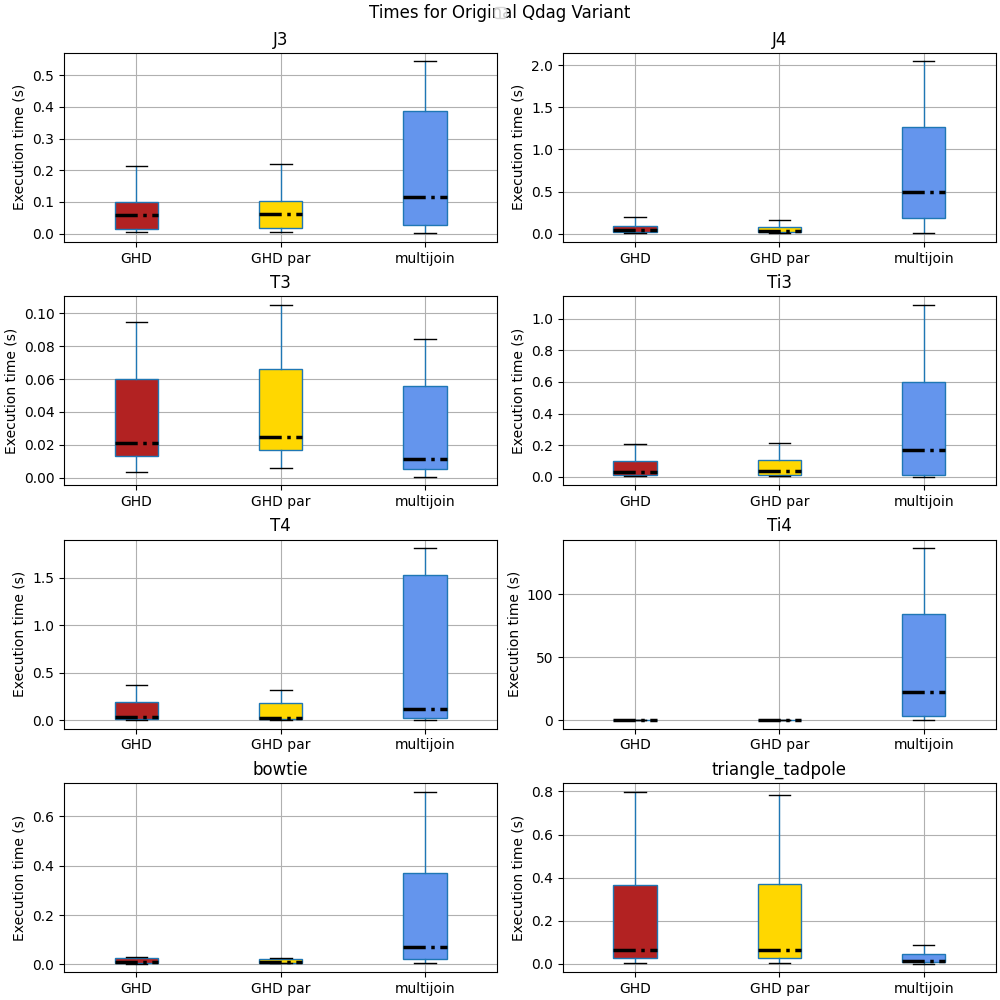
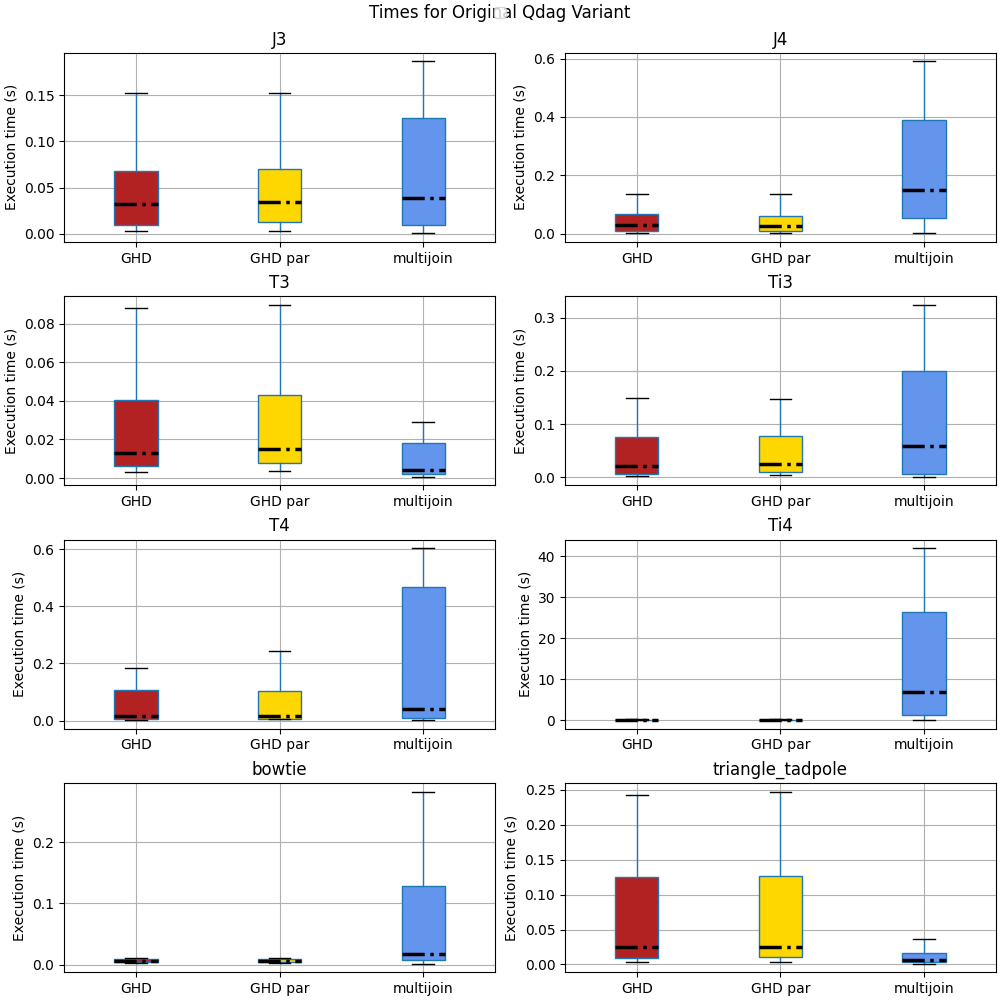
add chart with new results

diff --git a/plotter.py b/plotter.py
@@ -2,6 +2,20 @@ import pandas as pd
 import numpy as np
 import matplotlib.pyplot as plt
 
+ghd_confs={
+    "bowtie":1,
+    "J3":9,
+    "J4":7,
+    "triangle_barbell":1,
+    "triangle_tadpole":1,
+    "Ti4":7,
+    "square_tadpole":1,
+    "square_barbell":1,
+    "penta_barbell":1,
+    "T3":9,
+    "T4":7,
+    "Ti3":9,
+}
 def min_time():
     multi = ["J3", "J4", "T3", "Ti3", "T4", "Ti4"]
     for i, m in enumerate(multi):
@@ -62,21 +76,15 @@ def plot_times():
     for i, p in enumerate(patterns):
         if p in multi:
             df1 = pd.read_csv(f"outputs_time/{p}_ghd_yk_1.csv", names=["time"])
-            df2 = pd.read_csv(f"outputs_time/{p}_ghd_yk_2.csv", names=["time"])
-            df3 = pd.read_csv(f"outputs_time/{p}_ghd_yk_3.csv", names=["time"])
-
-            yk_res = pd.merge(df1, df2, left_index=True, right_index=True, suffixes=('_1', '_2'))
-            yk_res = pd.merge(yk_res, df3, left_index=True, right_index=True)
+            for j in range(2, ghd_confs[p]+1):
+                yk_res = pd.merge(df1, pd.read_csv(f"outputs_time/{p}_ghd_yk_{j}.csv", names=["time"]), left_index=True, right_index=True, suffixes=('_1', f'_{j}'))
             yk_res["GHD"] = yk_res.min(axis=1)
-
             df1p = pd.read_csv(f"outputs_time/{p}_ghd_yk_par_1.csv", names=["time"])
-            df2p = pd.read_csv(f"outputs_time/{p}_ghd_yk_par_2.csv", names=["time"])
-            df3p = pd.read_csv(f"outputs_time/{p}_ghd_yk_par_3.csv", names=["time"])
-
-            ykp_res = pd.merge(df1p, df2p, left_index=True, right_index=True)
-            ykp_res = pd.merge(ykp_res, df3p, left_index=True, right_index=True)
+            for j in range(1, ghd_confs[p]+1):
+                ykp_res = pd.merge(df1p, pd.read_csv(f"outputs_time/{p}_ghd_yk_{j}.csv", names=["time"]), left_index=True, right_index=True, suffixes=('_1', f'_{j}'))
+            
             ykp_res["GHD par"] = ykp_res.min(axis=1)
-
+            """
             df_np1 = pd.read_csv(f"outputs_time/no_pruning_{p}_ghd_yk_1.csv", names=["time"])
             df_np2 = pd.read_csv(f"outputs_time/no_pruning_{p}_ghd_yk_2.csv", names=["time"])
             df_np3 = pd.read_csv(f"outputs_time/no_pruning_{p}_ghd_yk_3.csv", names=["time"])
@@ -84,26 +92,26 @@ def plot_times():
             yk_np_res = pd.merge(df_np1, df_np2, left_index=True, right_index=True, suffixes=('_1', '_2'))
             yk_np_res = pd.merge(yk_np_res, df_np3, left_index=True, right_index=True)
             yk_np_res["GHD without pruning"] = yk_np_res.min(axis=1)
-
+"""
             df_mj = pd.read_csv(f"outputs_time/{p}_ghd_mj.csv", names=["multijoin"])
         else:
-            yk_res = pd.read_csv(f"outputs_time/{p}_yk.csv", names=["GHD"])
-            ykp_res = pd.read_csv(f"outputs_time/{p}_yk_par.csv", names=["GHD par"])
+            yk_res = pd.read_csv(f"outputs_time/{p}_yk_1.csv", names=["GHD"])
+            ykp_res = pd.read_csv(f"outputs_time/{p}_yk_par_1.csv", names=["GHD par"])
             df_mj = pd.read_csv(f"outputs_time/{p}_mj.csv", names=["multijoin"])
-            yk_np_res = pd.read_csv(f"outputs_time/no_pruning_{p}_yk.csv", names=["GHD without pruning"])
+           # yk_np_res = pd.read_csv(f"outputs_time/no_pruning_{p}_yk.csv", names=["GHD without pruning"])
 
         df_mj[df_mj['multijoin'] == 'timeout'] = 1800
         df_mj["multijoin"] = pd.to_numeric(df_mj["multijoin"], downcast='float')
 
         res = pd.merge(yk_res[["GHD"]], ykp_res[["GHD par"]], left_index=True, right_index=True)
-        res = pd.merge(res, yk_np_res, left_index=True, right_index=True)
+        #res = pd.merge(res, yk_np_res, left_index=True, right_index=True)
         res = pd.merge(res, df_mj, left_index=True, right_index=True)
         ax = axes[i//2][i%2]
         ax.set_title(p)
         ax.set_ylabel('Execution time (s)')
         bplot, props = res.boxplot(
             ax=ax,
-            column=["GHD", "GHD par", "GHD without pruning"],#, "multijoin"],
+            column=["GHD", "GHD par", "multijoin"],#"GHD without pruning"],#, "multijoin"],
             patch_artist=True,
             medianprops=medianprops,
             showmeans=False,
@@ -311,4 +319,4 @@ def time_comp():
     plt.savefig("outputs/pruning_diff")
 
 if __name__ == '__main__':
-    bpt()
+    plot_times()
